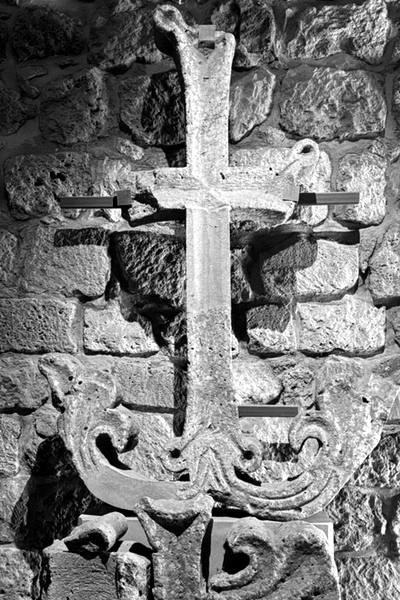
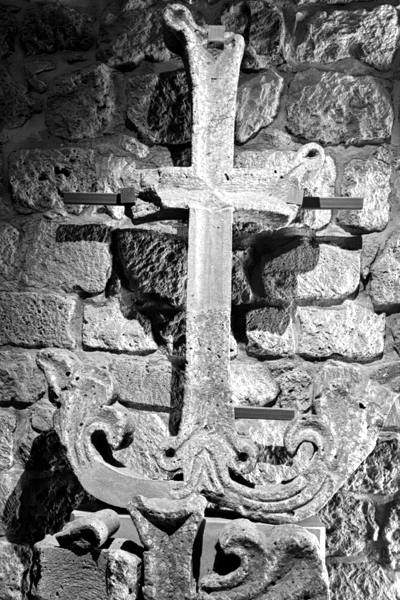
Straighten Khachkars frames and add a Writing intro

diff --git a/src/worker.ts b/src/worker.ts
@@ -353,7 +353,7 @@ app.get("/blog", async (c) => {
     .sort((a, b) => b.localeCompare(a))
   const yearsAscending = Object.keys(postsByYear).sort();
   const model: BlogIndexModel = {
-    description: "Writing from my work",
+    description: "Writing from my work building software companies. Most of these pieces were first published on the blogs of Zenobia Pay, Dolphin and Method.",
     postsByYear: sortedYears.map((year) => ({
       year,
       posts: postsByYear[year].map((post) => toPostSummary(post)),
